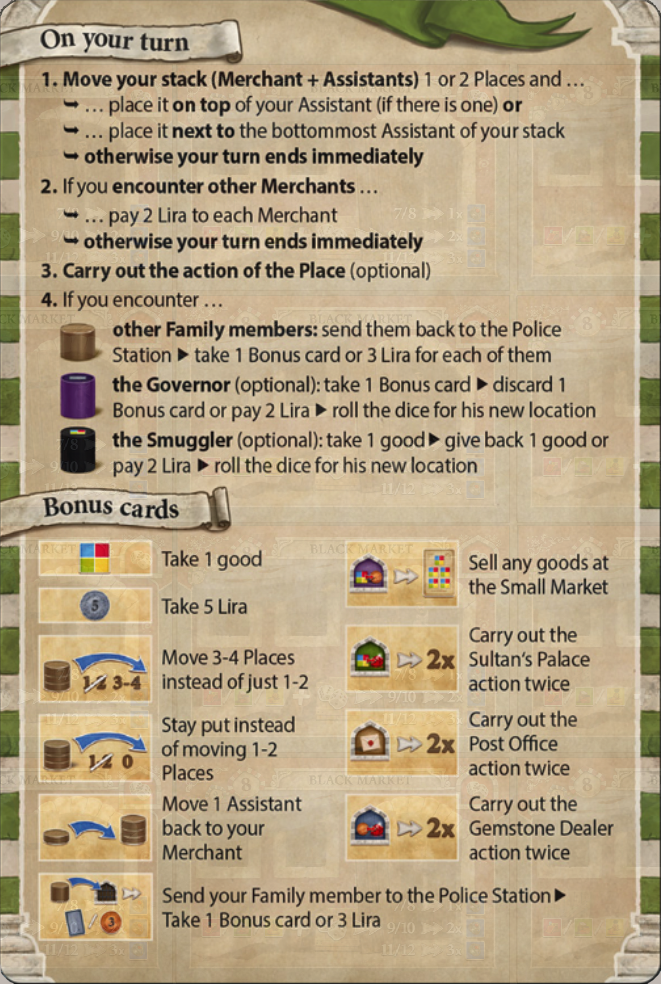
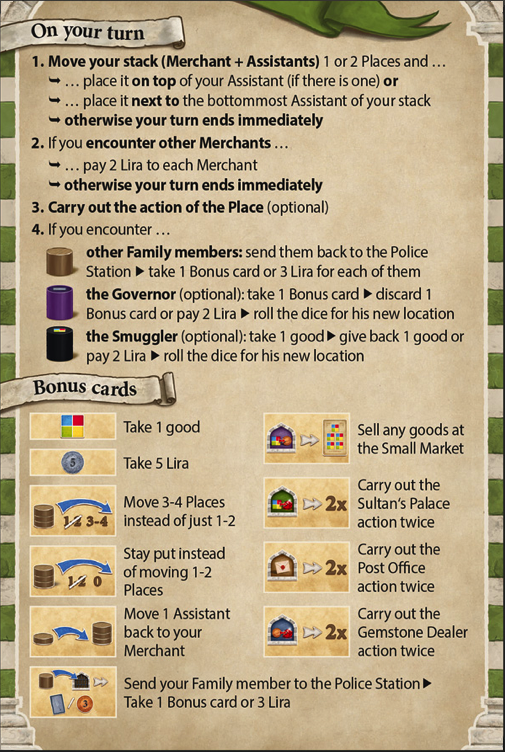
updated image

diff --git a/src/main/resources/css/game.css b/src/main/resources/css/game.css
@@ -57,7 +57,7 @@
 
 #rulesPage{
     -fx-background-image: url('../img/rules.png');
-    -fx-background-color: transparent;
+    -fx-background-color: rgba(255,255,255,0.5);
 }
 
 #askClose{

diff --git a/target/classes/css/game.css b/target/classes/css/game.css
@@ -57,7 +57,7 @@
 
 #rulesPage{
     -fx-background-image: url('../img/rules.png');
-    -fx-background-color: transparent;
+    -fx-background-color: rgba(255,255,255,0.5);
 }
 
 #askClose{
